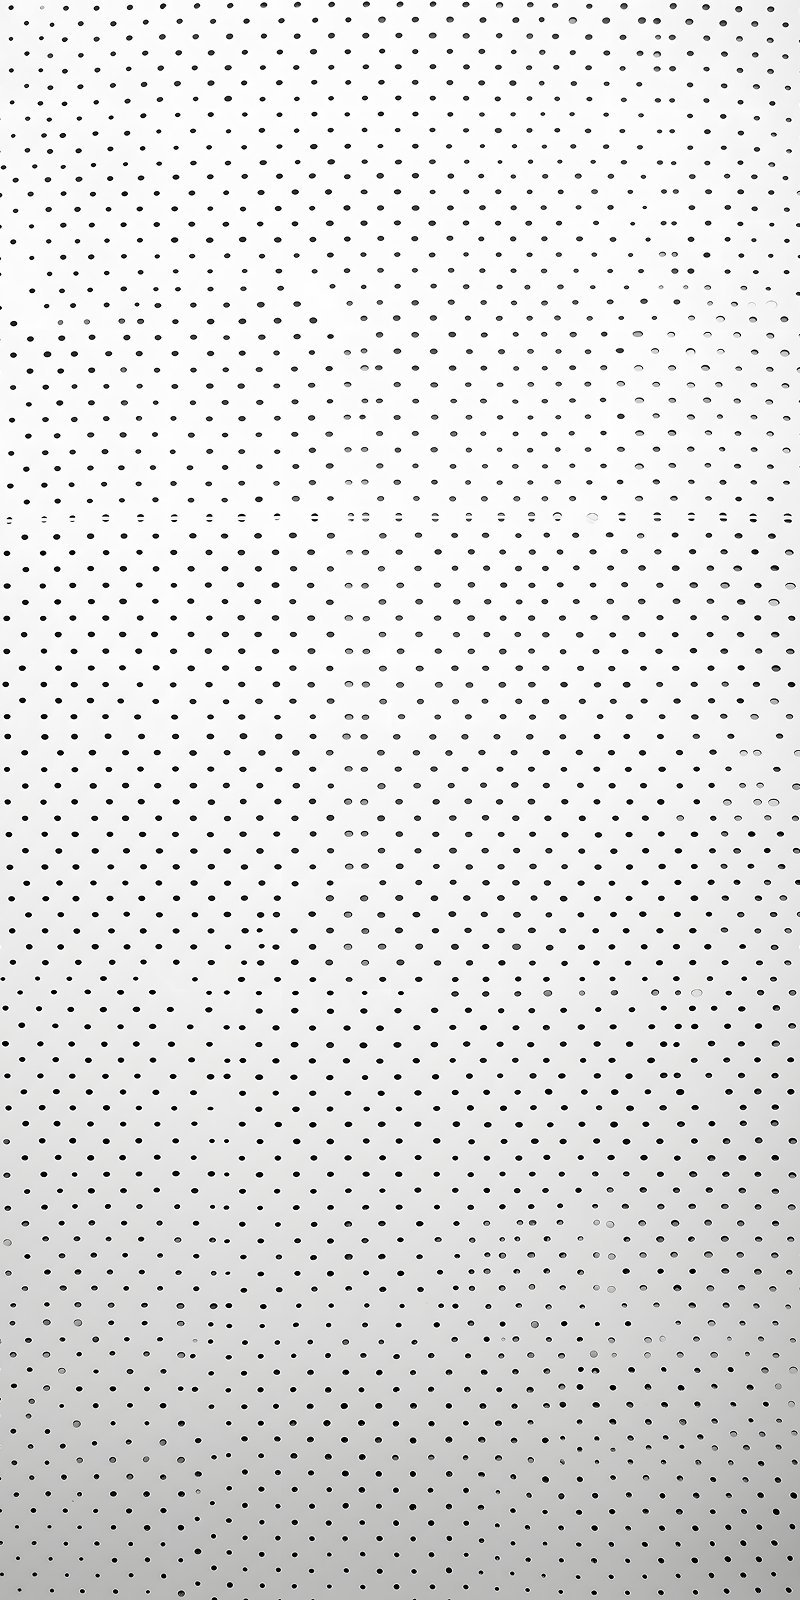
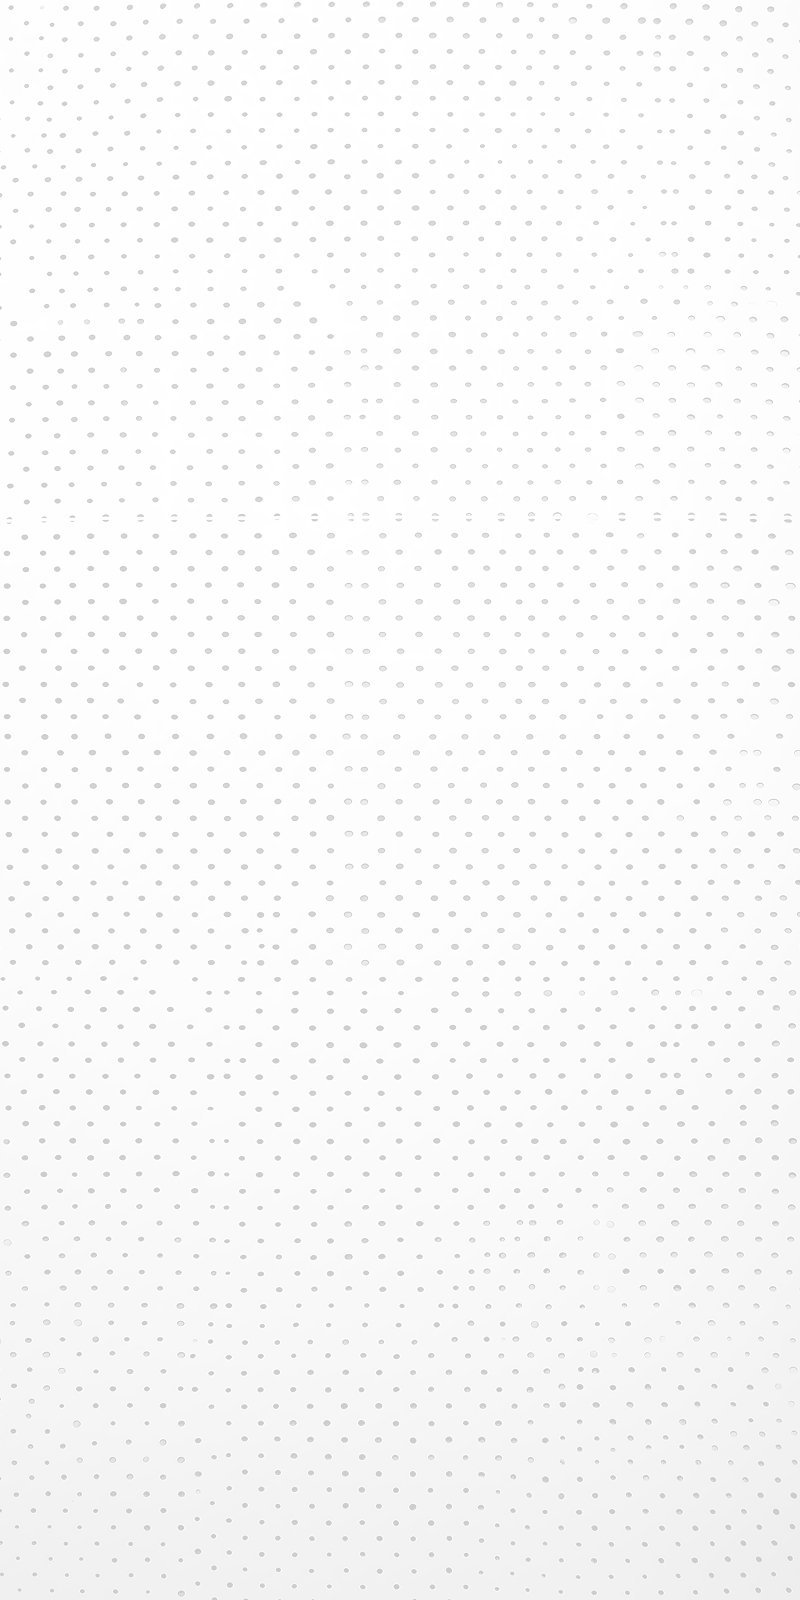
Add vcard sharing when profile is set.

diff --git a/Shared/Helpers/VCardGenerator.swift b/Shared/Helpers/VCardGenerator.swift
@@ -1,0 +1,79 @@
+//
+//  VCardGenerator.swift
+//  Arké
+//
+//  Created by Assistant on 4/23/26.
+//
+
+import Foundation
+
+/// Helper for generating vCard (.vcf) files with Bitcoin payment information
+struct VCardGenerator {
+    
+    /// Generates a vCard with Bitcoin payment information
+    /// - Parameters:
+    ///   - name: User's display name
+    ///   - bitcoinURI: Bitcoin URI (e.g., bitcoin:address?amount=X)
+    ///   - avatarData: Optional image data for profile photo (JPEG/PNG)
+    ///   - note: Optional note to include in the vCard
+    /// - Returns: vCard data as Data, or nil if generation fails
+    static func generateVCard(
+        name: String,
+        bitcoinURI: String,
+        avatarData: Data? = nil,
+        note: String? = nil
+    ) -> Data? {
+        var vcard = "BEGIN:VCARD\n"
+        vcard += "VERSION:3.0\n"
+        
+        // Full name
+        vcard += "FN:\(escapeVCardValue(name))\n"
+        
+        // Bitcoin URI as URL field
+        vcard += "URL;type=bitcoin:\(escapeVCardValue(bitcoinURI))\n"
+        
+        // Optional note
+        if let note = note, !note.isEmpty {
+            vcard += "NOTE:\(escapeVCardValue(note))\n"
+        }
+        
+        // Optional photo (base64 encoded)
+        if let avatarData = avatarData {
+            let base64Photo = avatarData.base64EncodedString()
+            let photoType = detectImageType(from: avatarData)
+            vcard += "PHOTO;ENCODING=BASE64;TYPE=\(photoType):\(base64Photo)\n"
+        }
+        
+        vcard += "END:VCARD\n"
+        
+        return vcard.data(using: .utf8)
+    }
+    
+    /// Escapes special characters in vCard values
+    private static func escapeVCardValue(_ value: String) -> String {
+        // vCard escaping rules: backslash, comma, semicolon, newline
+        return value
+            .replacingOccurrences(of: "\\", with: "\\\\")
+            .replacingOccurrences(of: ",", with: "\\,")
+            .replacingOccurrences(of: ";", with: "\\;")
+            .replacingOccurrences(of: "\n", with: "\\n")
+    }
+    
+    /// Detects image type from data
+    private static func detectImageType(from data: Data) -> String {
+        guard data.count > 1 else { return "JPEG" }
+        
+        // Check PNG signature (89 50 4E 47)
+        if data[0] == 0x89 && data[1] == 0x50 {
+            return "PNG"
+        }
+        
+        // Check JPEG signature (FF D8)
+        if data[0] == 0xFF && data[1] == 0xD8 {
+            return "JPEG"
+        }
+        
+        // Default to JPEG
+        return "JPEG"
+    }
+}

diff --git a/Arké mobile/Helpers/ShareHelper.swift b/Arké mobile/Helpers/ShareHelper.swift
@@ -1,0 +1,66 @@
+//
+//  ShareHelper.swift
+//  Arké
+//
+//  Created by Assistant on 4/23/26.
+//
+
+import SwiftUI
+import UIKit
+
+/// Helper for sharing multiple items using UIActivityViewController
+struct ShareHelper {
+    
+    /// Presents the share sheet with multiple items
+    /// - Parameters:
+    ///   - items: The items to share (can be String, URL, Data, etc.)
+    ///   - completion: Optional completion handler
+    static func share(items: [Any], from viewController: UIViewController? = nil, completion: (() -> Void)? = nil) {
+        guard !items.isEmpty else { return }
+        
+        let activityViewController = UIActivityViewController(
+            activityItems: items,
+            applicationActivities: nil
+        )
+        
+        // Get the appropriate view controller to present from
+        let presentingVC = viewController ?? UIApplication.shared.windows.first?.rootViewController
+        
+        // For iPad, configure popover presentation
+        if let popover = activityViewController.popoverPresentationController {
+            popover.sourceView = presentingVC?.view
+            popover.sourceRect = CGRect(
+                x: presentingVC?.view.bounds.midX ?? 0,
+                y: presentingVC?.view.bounds.midY ?? 0,
+                width: 0,
+                height: 0
+            )
+            popover.permittedArrowDirections = []
+        }
+        
+        activityViewController.completionWithItemsHandler = { _, _, _, _ in
+            completion?()
+        }
+        
+        presentingVC?.present(activityViewController, animated: true)
+    }
+}
+
+/// A view modifier that adds a share action to a view
+struct ShareButton: View {
+    let items: [Any]
+    let label: () -> AnyView
+    
+    init(items: [Any], @ViewBuilder label: @escaping () -> some View) {
+        self.items = items
+        self.label = { AnyView(label()) }
+    }
+    
+    var body: some View {
+        Button {
+            ShareHelper.share(items: items)
+        } label: {
+            label()
+        }
+    }
+}

diff --git a/Shared/Views/Receive/ReceiveViewModel.swift b/Shared/Views/Receive/ReceiveViewModel.swift
@@ -213,6 +213,49 @@ final class ReceiveViewModel {
         )
     }
     
+    /// Checks if user has a configured profile (name and optionally avatar)
+    var hasUserProfile: Bool {
+        guard let modelContext = modelContext else { return false }
+        let descriptor = FetchDescriptor<UserProfile>()
+        guard let profile = try? modelContext.fetch(descriptor).first else { return false }
+        return profile.isConfigured
+    }
+    
+    /// Gets vCard data for sharing user profile with Bitcoin payment info
+    func getVCardData() -> URL? {
+        guard let shareContent = getShareContent() else { return nil }
+        guard let modelContext = modelContext else { return nil }
+        
+        let descriptor = FetchDescriptor<UserProfile>()
+        guard let profile = try? modelContext.fetch(descriptor).first,
+              let userName = userProfileName,
+              !userName.isEmpty else {
+            return nil
+        }
+        
+        // Generate vCard
+        guard let vcardData = VCardGenerator.generateVCard(
+            name: userName,
+            bitcoinURI: shareContent,
+            avatarData: profile.avatarData,
+            note: "Bitcoin payment address"
+        ) else {
+            return nil
+        }
+        
+        // Create a temporary file URL for the vCard
+        let tempDir = FileManager.default.temporaryDirectory
+        let vcardURL = tempDir.appendingPathComponent("\(userName).vcf")
+        
+        do {
+            try vcardData.write(to: vcardURL)
+            return vcardURL
+        } catch {
+            print("Failed to write vCard to temp file: \(error)")
+            return nil
+        }
+    }
+    
     // MARK: - Sheet Management
     
     func showQRCode() {

diff --git a/Arké mobile/Views/Receive/ReceiveView_iOS.swift b/Arké mobile/Views/Receive/ReceiveView_iOS.swift
@@ -153,7 +153,7 @@ struct ReceiveView_iOS: View {
                         )
                         .padding(.horizontal)
                         
-                        // Share button for Lightning invoice
+                        // Share button for Lightning invoice (no vCard - invoices expire)
                         if let shareContent = viewModel.getShareContent() {
                             ShareLink(item: shareContent) {
                                 Text("button_share")
@@ -177,7 +177,7 @@ struct ReceiveView_iOS: View {
                         .padding(.horizontal)
                     }
                 } else {
-                    // Non-Lightning balance types (Bitcoin/Liquid)
+                    // Non-Lightning balance types (Bitcoin/Ark)
                     // Large QR Code Display
                     VStack(spacing: 20) {
                         if let qrContent = viewModel.getCurrentQRContent() {
@@ -211,18 +211,34 @@ struct ReceiveView_iOS: View {
                         .padding(.horizontal)
                     }
                     
-                    // Share button (non-Lightning only)
+                    // Share buttons (non-Lightning only)
                     if viewModel.hasQRContent, let shareContent = viewModel.getShareContent() {
-                        ShareLink(item: shareContent) {
-                            Text("button_share")
-                                .font(.system(size: 21, weight: .semibold))
-                                .foregroundStyle(Color.Arke.gold3)
-                                .frame(maxWidth: .infinity)
-                                .padding(.horizontal, 20)
+                        HStack(spacing: 12) {
+                            // Main share button - shares BIP-21 URI as text
+                            ShareLink(item: shareContent) {
+                                Text("button_share")
+                                    .font(.system(size: 21, weight: .semibold))
+                                    .foregroundStyle(Color.Arke.gold3)
+                                    .frame(maxWidth: .infinity)
+                                    .padding(.horizontal, 20)
+                            }
+                            .buttonStyle(.glassProminent)
+                            .tint(.Arke.gold)
+                            .controlSize(.large)
+                            
+                            // vCard share button - only show if user has profile
+                            if viewModel.hasUserProfile, let vcardURL = viewModel.getVCardData() {
+                                ShareButton(items: [vcardURL]) {
+                                    Image(systemName: "person.text.rectangle.fill")
+                                        .font(.system(size: 20))
+                                        .foregroundStyle(Color.Arke.gold3)
+                                        .frame(width: 30, height: 30)
+                                }
+                                .buttonStyle(.glassProminent)
+                                .tint(.Arke.gold)
+                                .controlSize(.large)
+                            }
                         }
-                        .buttonStyle(.glassProminent)
-                        .tint(.Arke.gold)
-                        .controlSize(.large)
                         .padding(.horizontal)
                     }
                 }

diff --git a/Arké mobile/Views/Receive/ReceiveQRCodeDisplaySection_iOS.swift b/Arké mobile/Views/Receive/ReceiveQRCodeDisplaySection_iOS.swift
@@ -125,8 +125,6 @@ struct ReceiveQRCodeDisplaySection_iOS: View {
         qrImage = QRCodeGenerator.shared.generateSimpleQRCode(from: content)
     }
     
-
-    
     private func generateSecondQRCode() {
         do {
             // Try to use user's avatar, fallback to app logo